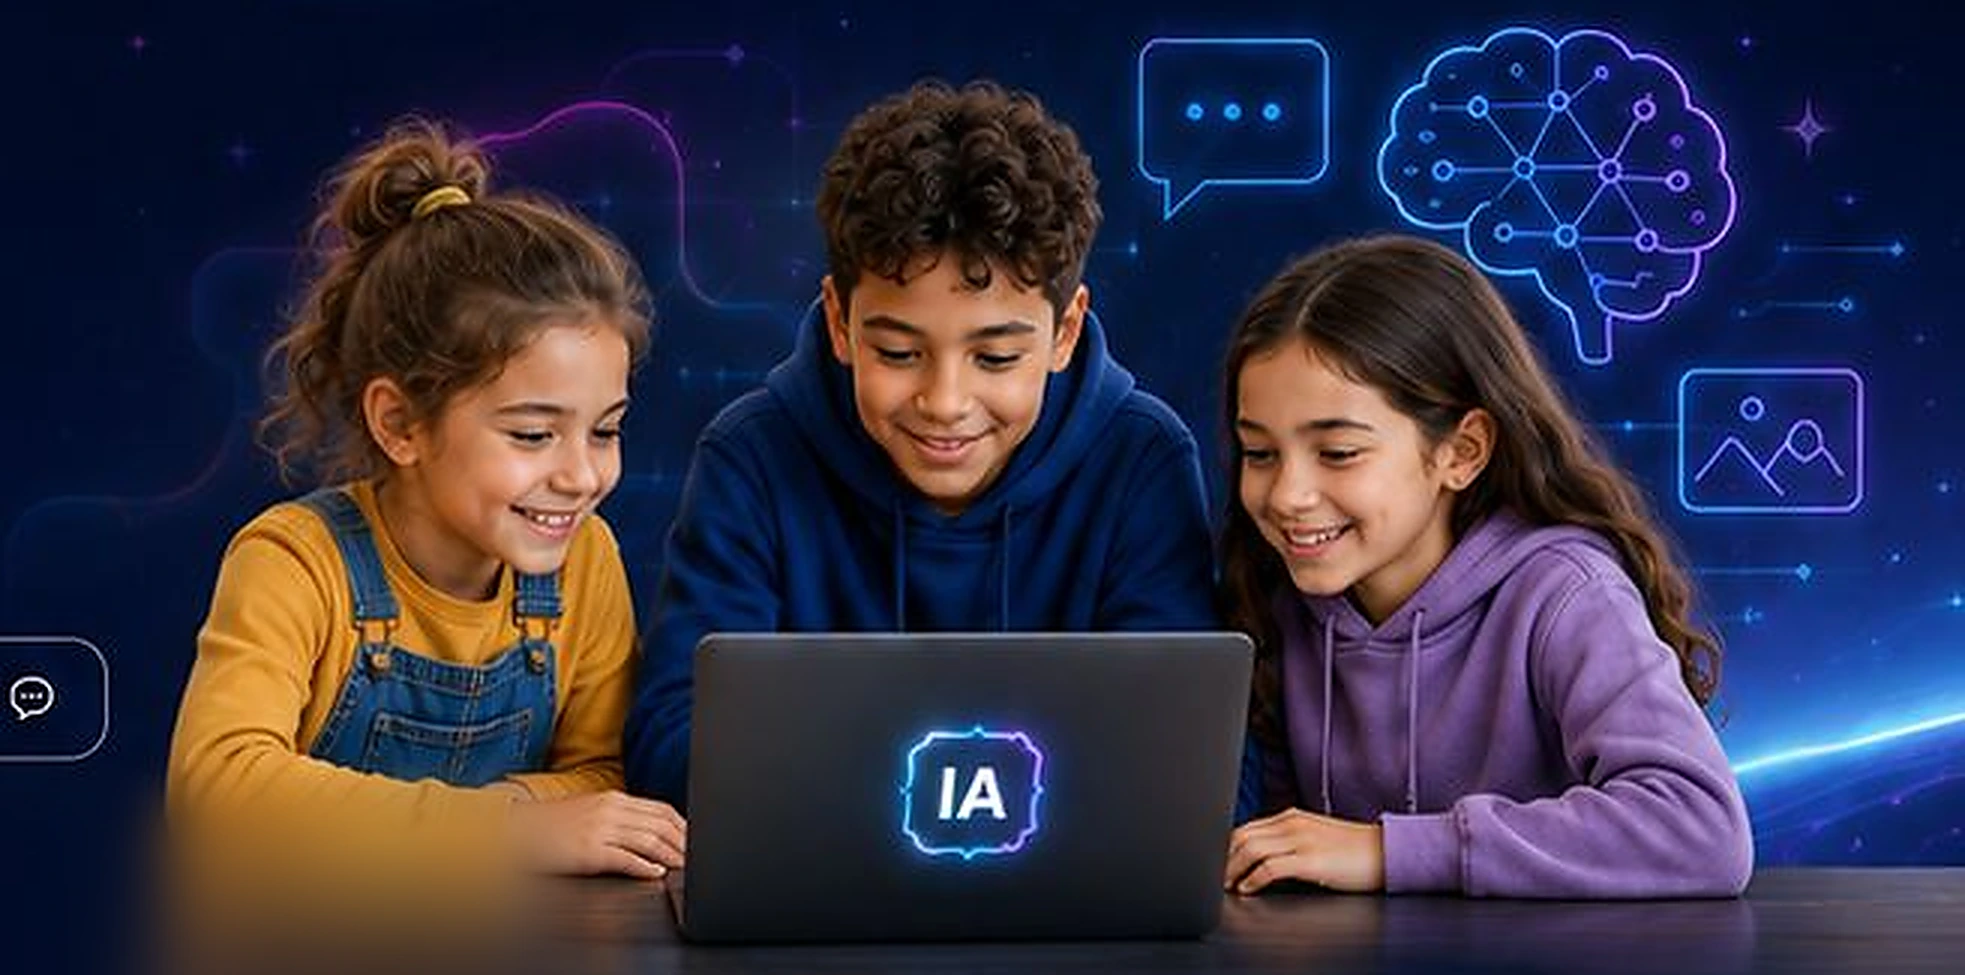
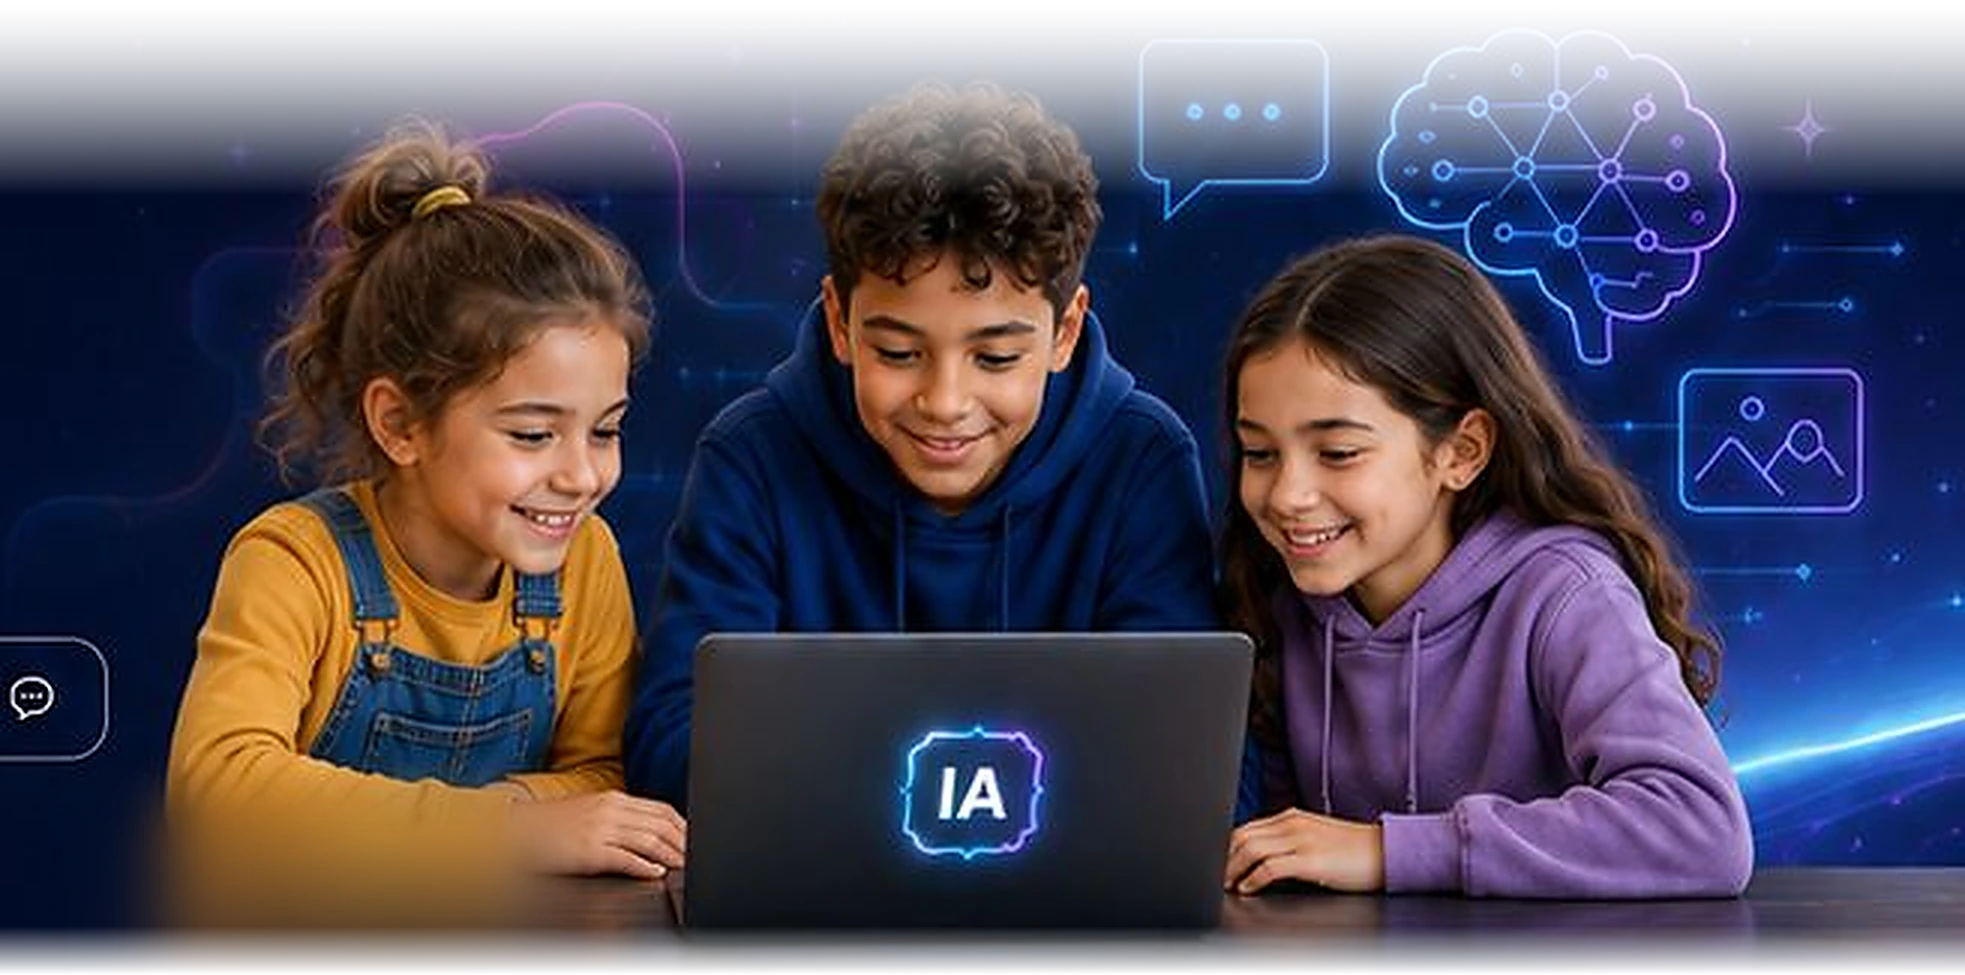
Fond les visuels de hero et les intègre sur mobile
Le bord franc en haut de la photo venait de la composition des masques :
deux mask-image se combinent en union, pas en intersection, donc le
fondu vertical n'était jamais appliqué. Le fondu est désormais gravé
dans le canal alpha des images, indépendamment du CSS, et il ne reste
qu'un seul dégradé de masque pour le fondu latéral en desktop.

Sur mobile, la photo n'est plus un bloc encadré posé sous le texte :
c'est le même visuel que sur grand écran, ancré en bas de section et
débordant pour cadrer sur sa partie droite. La réserve d'espace sous le
contenu suit la hauteur réelle de l'image, ce qui évite que les
réassurances se posent sur les visages.

Vérifié sans débordement horizontal à 390, 768 et 1440 px.

Changed region(s): [[0.0, 0.0, 1.0, 0.2154], [0.0, 0.9538, 1.0, 1.0]]

diff --git a/src/components/home/Hero.tsx b/src/components/home/Hero.tsx
@@ -26,38 +26,31 @@ export function Hero() {
         };
 
   return (
-    <section className="relative isolate overflow-hidden bg-navy-950 pt-28 pb-12 text-white sm:pt-32 sm:pb-14 lg:min-h-[560px]">
+    <section className="relative isolate overflow-hidden bg-navy-950 pt-28 text-white sm:pt-32 lg:min-h-[560px] lg:pb-14">
       <div
         aria-hidden
         className="pointer-events-none absolute inset-0 hero-glow animate-drift"
       />
 
-      {/* Visuel de droite : il déborde jusqu'au bord et se fond dans le fond
-          sombre, comme sur la maquette. Masqué en dessous de lg, où il repasse
-          en bloc sous le texte. */}
+      {/*
+        Un seul visuel à toutes les tailles : ancré en bas à droite, il déborde
+        sur mobile pour cadrer sur la partie droite de la photo, et se replie
+        sur la moitié droite à partir de lg. Le fondu haut est gravé dans
+        l'alpha de l'image, le fondu latéral vient de .hero-media.
+      */}
       <motion.div
         aria-hidden
         initial={reduced ? undefined : { opacity: 0, scale: 1.04 }}
         animate={reduced ? undefined : { opacity: 1, scale: 1 }}
         transition={{ duration: 1.1, ease: EASE }}
-        className="pointer-events-none absolute bottom-0 right-0 hidden aspect-[1.93/1] w-[62%] lg:block"
-        style={{
-          // fondu à gauche pour rejoindre le fond, et fondu haut/bas pour
-          // effacer la limite du cadre de l'image
-          maskImage:
-            "linear-gradient(to right, transparent 0%, #000 34%), linear-gradient(to bottom, transparent 0%, #000 10%, #000 94%, transparent 100%)",
-          maskComposite: "intersect",
-          WebkitMaskImage:
-            "linear-gradient(to right, transparent 0%, #000 34%), linear-gradient(to bottom, transparent 0%, #000 10%, #000 94%, transparent 100%)",
-          WebkitMaskComposite: "source-in",
-        }}
+        className="hero-media pointer-events-none absolute bottom-0 right-0 aspect-[1.93/1] w-[140%] max-w-none sm:w-[105%] lg:w-[62%]"
       >
         <Image
           src={HERO_IMG}
           alt=""
           fill
           priority
-          sizes="62vw"
+          sizes="(max-width: 1024px) 140vw, 62vw"
           className="object-contain object-right-bottom"
         />
       </motion.div>
@@ -77,8 +70,8 @@ export function Hero() {
             {...rise(0.12)}
             className="mt-5 max-w-md text-[17px] leading-relaxed text-white/70"
           >
-            Parents et enfants apprennent, créent et découvrent l&apos;intelligence
-            artificielle ensemble, en toute simplicité.
+            Parents et enfants apprennent, créent et découvrent
+            l&apos;intelligence artificielle ensemble, en toute simplicité.
           </motion.p>
 
           <motion.div {...rise(0.22)} className="mt-8 flex flex-wrap gap-3">
@@ -91,26 +84,9 @@ export function Hero() {
           </motion.div>
         </div>
 
-        {/* visuel en version mobile / tablette */}
-        <motion.div
-          initial={reduced ? undefined : { opacity: 0, y: 20 }}
-          animate={reduced ? undefined : { opacity: 1, y: 0 }}
-          transition={{ duration: 0.8, delay: 0.2, ease: EASE }}
-          className="relative mt-10 aspect-[16/9] w-full overflow-hidden rounded-2xl border border-white/10 lg:hidden"
-        >
-          <Image
-            src={HERO_IMG}
-            alt={HERO_ALT}
-            fill
-            priority
-            sizes="100vw"
-            className="object-cover"
-          />
-        </motion.div>
-
         <motion.ul
           {...rise(0.34)}
-          className="relative mt-10 grid gap-5 sm:grid-cols-3 lg:mt-14 lg:max-w-[46%]"
+          className="relative mt-10 grid gap-5 sm:grid-cols-3 lg:mt-12 lg:max-w-[46%]"
         >
           {heroPoints.map(({ icon: Icon, title, text }) => (
             <li key={title} className="flex items-start gap-3">
@@ -126,6 +102,10 @@ export function Hero() {
             </li>
           ))}
         </motion.ul>
+
+        {/* réserve la place du visuel sous le contenu, hors desktop */}
+        <div aria-hidden className="h-[76vw] sm:h-[58vw] lg:hidden" />
+        <span className="sr-only">{HERO_ALT}</span>
       </Container>
     </section>
   );

diff --git a/src/components/enfants/HeroEnfants.tsx b/src/components/enfants/HeroEnfants.tsx
@@ -25,7 +25,7 @@ export function HeroEnfants() {
         };
 
   return (
-    <section className="relative isolate overflow-hidden bg-navy-950 pt-28 pb-12 text-white sm:pt-32 sm:pb-14 lg:min-h-[540px]">
+    <section className="relative isolate overflow-hidden bg-navy-950 pt-28 text-white sm:pt-32 lg:min-h-[540px] lg:pb-14">
       <div
         aria-hidden
         className="pointer-events-none absolute inset-0 hero-glow animate-drift"
@@ -36,17 +36,16 @@ export function HeroEnfants() {
         initial={reduced ? undefined : { opacity: 0, scale: 1.04 }}
         animate={reduced ? undefined : { opacity: 1, scale: 1 }}
         transition={{ duration: 1.1, ease: EASE }}
-        className="pointer-events-none absolute bottom-0 right-0 hidden aspect-[2/1] w-[62%] lg:block"
-        style={{
-          maskImage:
-            "linear-gradient(to right, transparent 0%, #000 32%), linear-gradient(to bottom, transparent 0%, #000 10%, #000 94%, transparent 100%)",
-          maskComposite: "intersect",
-          WebkitMaskImage:
-            "linear-gradient(to right, transparent 0%, #000 32%), linear-gradient(to bottom, transparent 0%, #000 10%, #000 94%, transparent 100%)",
-          WebkitMaskComposite: "source-in",
-        }}
+        className="hero-media pointer-events-none absolute bottom-0 right-0 aspect-[2/1] w-[140%] max-w-none sm:w-[105%] lg:w-[62%]"
       >
-        <Image src={IMG} alt="" fill priority sizes="62vw" className="object-contain object-right-bottom" />
+        <Image
+          src={IMG}
+          alt=""
+          fill
+          priority
+          sizes="(max-width: 1024px) 140vw, 62vw"
+          className="object-contain object-right-bottom"
+        />
       </motion.div>
 
       <Container className="relative">
@@ -83,15 +82,6 @@ export function HeroEnfants() {
           </motion.div>
         </div>
 
-        <motion.div
-          initial={reduced ? undefined : { opacity: 0, y: 20 }}
-          animate={reduced ? undefined : { opacity: 1, y: 0 }}
-          transition={{ duration: 0.8, delay: 0.2, ease: EASE }}
-          className="relative mt-10 aspect-[2/1] w-full overflow-hidden rounded-2xl border border-white/10 lg:hidden"
-        >
-          <Image src={IMG} alt={ALT} fill priority sizes="100vw" className="object-cover" />
-        </motion.div>
-
         <motion.ul
           {...rise(0.34)}
           className="relative mt-10 grid gap-5 sm:grid-cols-3 lg:mt-12 lg:max-w-[46%]"
@@ -110,6 +100,9 @@ export function HeroEnfants() {
             </li>
           ))}
         </motion.ul>
+
+        <div aria-hidden className="h-[74vw] sm:h-[56vw] lg:hidden" />
+        <span className="sr-only">{ALT}</span>
       </Container>
     </section>
   );

diff --git a/src/app/globals.css b/src/app/globals.css
@@ -107,6 +107,22 @@ body {
   background: rgb(99 102 241 / 0.25);
 }
 
+/* Visuel de hero : sur mobile il occupe le bas de la section et se fond
+   grâce à l'alpha gravé dans l'image ; à partir de lg il glisse à droite et
+   reçoit en plus un fondu latéral. Un seul dégradé de masque, car composer
+   deux `mask-image` se fait en union et laissait un bord franc. */
+.hero-media {
+  mask-image: none;
+  -webkit-mask-image: none;
+}
+
+@media (min-width: 1024px) {
+  .hero-media {
+    mask-image: linear-gradient(to right, transparent 0%, #000 34%);
+    -webkit-mask-image: linear-gradient(to right, transparent 0%, #000 34%);
+  }
+}
+
 /* Le dégradé du hero respire lentement */
 @keyframes drift {
   0%,
